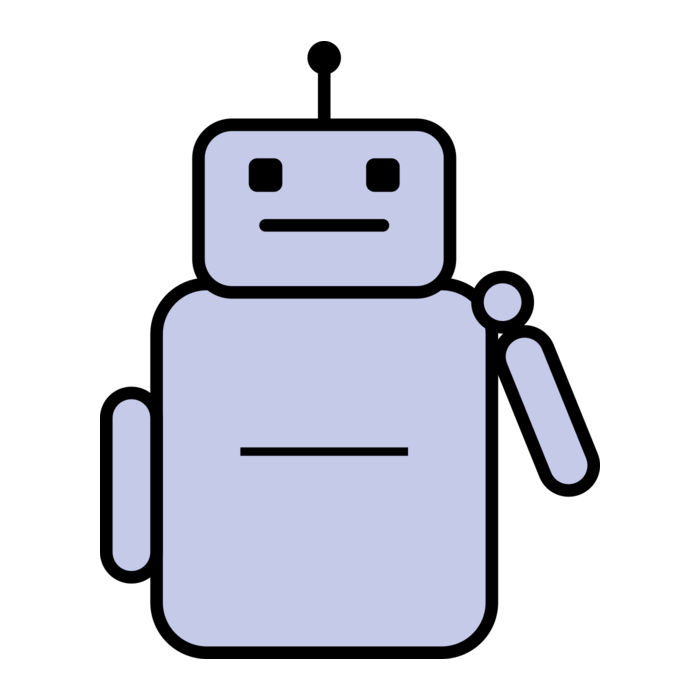
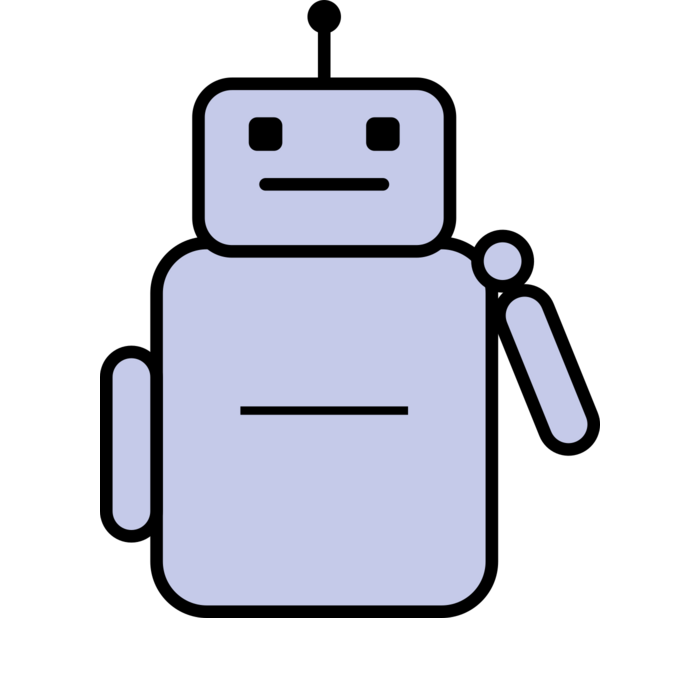
Reframe robot 01/02 previews (lift up)

diff --git a/README.md b/README.md
@@ -7,15 +7,13 @@ Every Robot’s metadata and image live entirely on-chain — no IPFS, no server
 
 The files below are extracted directly from the on-chain metadata for preview purposes.
 
-<table align="center">
-  <tr>
-    <td valign="bottom"><img src="images/robots/previews/robot_01.png" height="130" /></td>
-    <td valign="bottom"><img src="images/robots/previews/robot_02.png" height="130" /></td>
-    <td valign="bottom"><img src="images/robots/previews/robot_05.png" height="150" /></td>
-    <td valign="bottom"><img src="images/robots/previews/robot_10.png" height="150" /></td>
-    <td valign="bottom"><img src="images/robots/previews/robot_15.png" height="150" /></td>
-  </tr>
-</table>
+<p align="center">
+  <img src="images/robots/previews/robot_01.png" height="140" />
+  <img src="images/robots/previews/robot_02.png" height="140" />
+  <img src="images/robots/previews/robot_05.png" height="140" />
+  <img src="images/robots/previews/robot_10.png" height="140" />
+  <img src="images/robots/previews/robot_15.png" height="140" />
+</p>
 
 
 ---
